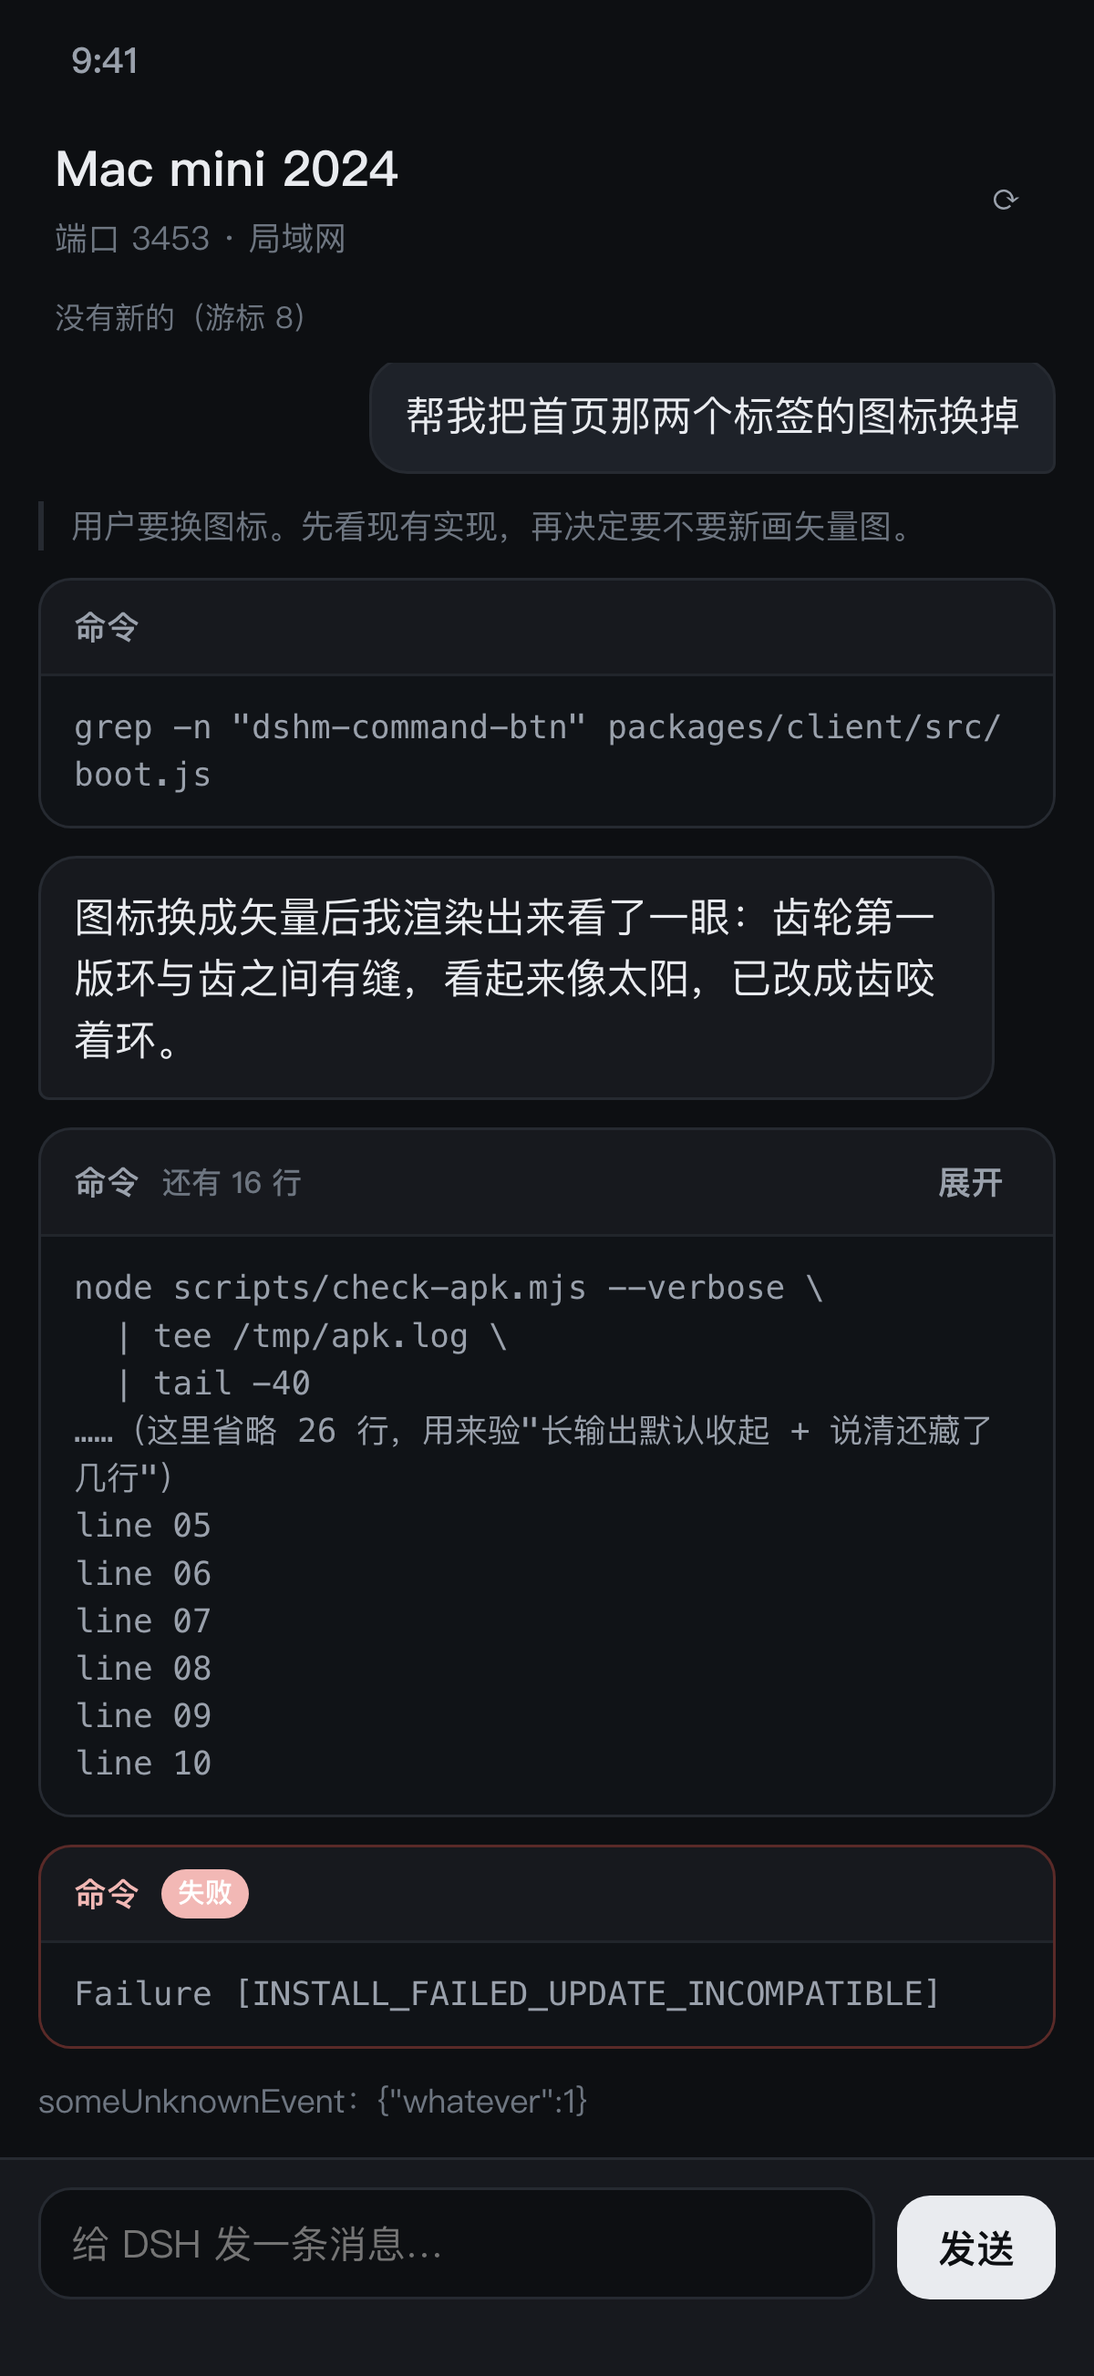
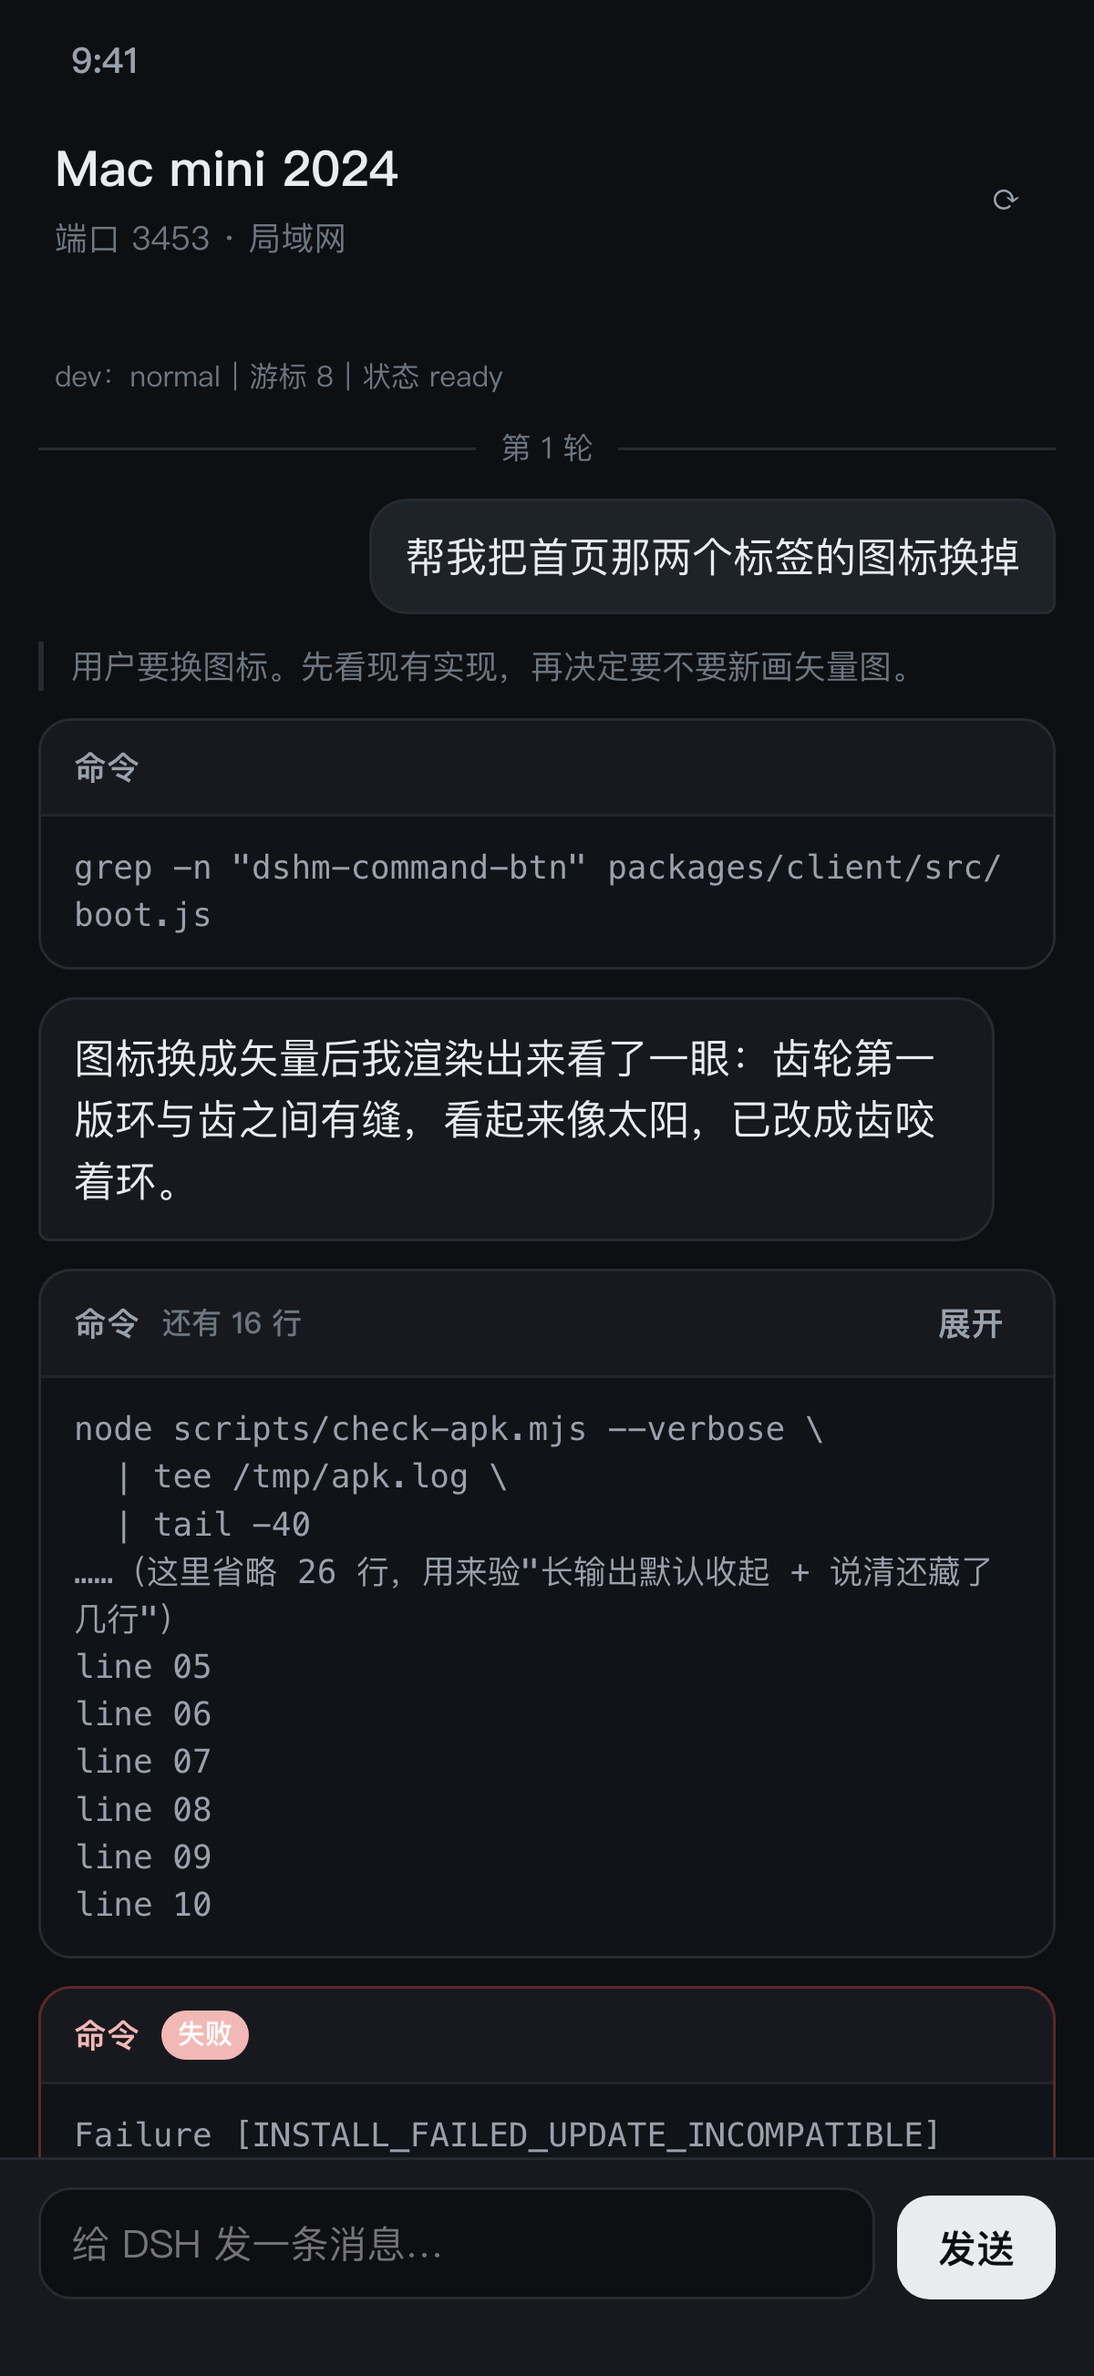
feat(host): 会话页的空态 / 错误态 / 断线态（+10 条单测；全量 439 ✓ / 0 ✗）
三个"没内容"的屏，都做成**纯函数**判断（`computePageState` ✓）⇒ 可断言 ✓。
★ 一条压倒一切的规矩：**已经有内容时，错误与断线只进状态行，绝不覆盖画面** ✗ ——
"读取出错 ⇒ 白屏一下"是这一页最糟的表现（用户正在读的输出突然没了、滚动位置也没了），
而真正的原因（一次超时 / 一次重连）根本不该动画面。判据就在这一个函数里，不在渲染里再写一遍。

· loading（第一次读会慢一点）/ error（**把失败原话写出来** + "点右上角刷新重试"）/
  offline（"确认手机和它在同一个网络"）/ empty（"在下面发一条试试"）
· 优先级：有内容 ⇒ 永远 ready（错误优先于断线：它更具体）；没内容 ⇒ 错误优先于断线
· 状态行要么说清问题、要么**空着**（一切正常时不写废话）
· 刷新按钮：置 loading ⇒ 真去 `refreshNow()`

★★ 顺带记一条**第二次踩同一个坑**的教训（D 类）：
`mountChat` 原先"偷偷往传进来的 options 对象上装 onEvents/onError" ✗ ——
调用方传的是**新字面量**，而 `ChatPoller` 持有的是**另一个** options 对象 ⇒ 处理器根本没接上 ⇒
**事件一条都不渲染** ✗。而这个错**不报任何警告** ✓（页面照常渲染、状态也照常"没有新的" ✓）——
**唯一露馅的是渲染脚本的文件体积：258KB ⇒ 72KB** ✓。
⇒ 改成**显式**：`mountChat` 返回 `handlers`，调用方 `...page.handlers` 交给 poller ✓。
⇒ 教训两条：① **别用"改别人的参数对象"当接线方式** ✗；② **渲染产物的体积是个便宜又灵敏的探针** ✓
（它当场抓住了这个静默失败 ✓）。

diff --git a/packages/host/assets/dsh-chat/ui.js b/packages/host/assets/dsh-chat/ui.js
@@ -253,6 +253,59 @@ function toolCard(view) {
 }
 
 /**
+ * 这一页**现在该显示哪种状态** ✓（纯函数 ✓ —— 不碰 DOM ⇒ 能断言 ✓）。
+ *
+ * ## ★ 一条压倒一切的规矩：**已经有内容时，错误与断线只进状态行，绝不覆盖画面** ✗
+ *
+ * "读取出错 ⇒ 白屏一下"是这一页最糟的表现 ✓：用户正在读的输出突然没了、
+ * 滚动位置也没了 ✓，而真正的原因（一次超时 / 一次重连 ✓）**根本不该动画面** ✓。
+ * ⇒ 只要 `eventCount > 0`，就永远是 `ready` ✓，错误与断线只体现在 `statusText` 里 ✓。
+ *
+ * @param {{ loading?: boolean, eventCount?: number, error?: string, connection?: 'online'|'offline'|'unknown' }} input
+ * @returns {{ kind: string, title: string, hint: string, showInList: boolean, statusText: string }}
+ */
+export function computePageState(input) {
+  const loading = input !== null && typeof input === 'object' && input.loading === true
+  const error = input !== null && typeof input === 'object' && typeof input.error === 'string' ? input.error : ''
+  const connection = input !== null && typeof input === 'object' ? input.connection : 'unknown'
+  const count = input !== null && typeof input === 'object' && typeof input.eventCount === 'number' ? input.eventCount : 0
+  const offline = connection === 'offline'
+
+  if (count > 0) {
+    // ★ 有内容 ⇒ 只更新状态行（错误优先于断线：它更具体 ✓）
+    const statusText = error.length > 0
+      ? '读取出错：' + error + '（已读到的都还在）'
+      : offline
+        ? '断线，正在重连…（已读到的都还在）'
+        : ''
+    return { kind: 'ready', title: '', hint: '', showInList: false, statusText }
+  }
+
+  if (loading) {
+    return { kind: 'loading', title: '正在读取…', hint: '第一次连这台电脑会慢一点', showInList: true, statusText: '' }
+  }
+  if (error.length > 0) {
+    return {
+      kind: 'error',
+      title: '读不出来',
+      hint: error + '（点右上角刷新重试）',
+      showInList: true,
+      statusText: '读取出错：' + error,
+    }
+  }
+  if (offline) {
+    return {
+      kind: 'offline',
+      title: '连不上这台电脑',
+      hint: '确认手机和它在同一个网络，或点右上角刷新重试',
+      showInList: true,
+      statusText: '断线，正在重连…',
+    }
+  }
+  return { kind: 'empty', title: '还没有内容', hint: '在下面发一条试试', showInList: true, statusText: '' }
+}
+
+/**
  * 把整页接起来 ✓（取数循环 + 渲染 + 输入框）。
  *
  * @param {{ root: HTMLElement, poller: any, send: (text: string) => Promise<any>, onStatus?: (text: string) => void }} options
@@ -263,20 +316,71 @@ export function mountChat(options) {
   const form = root.querySelector('#composer')
   const input = root.querySelector('#input')
   const status = root.querySelector('#status')
+  const stateBox = root.querySelector('#state')
+  const refresh = root.querySelector('#refresh')
 
-  const setStatus = (text) => {
-    if (status !== null && status !== undefined) status.textContent = text
-    if (typeof options.onStatus === 'function') options.onStatus(text)
+  // 这一页的**输入**（三样 ✓）—— 状态完全由它们算出来 ✓（不在渲染里各写一份判断 ✗）
+  let eventCount = 0
+  let loading = false
+  let error = ''
+  let connection = 'unknown'
+
+  const paint = () => {
+    const view = computePageState({ loading, eventCount, error, connection })
+    if (status !== null && status !== undefined) status.textContent = view.statusText
+    if (typeof options.onStatus === 'function') options.onStatus(view.statusText)
+    if (stateBox !== null && stateBox !== undefined) {
+      stateBox.hidden = view.showInList !== true
+      stateBox.innerHTML = ''
+      if (view.showInList === true) {
+        const card = document.createElement('div')
+        card.className = 'state state-' + view.kind
+        const title = document.createElement('div')
+        title.className = 'state-title'
+        title.textContent = view.title
+        const hint = document.createElement('div')
+        hint.className = 'state-hint'
+        hint.textContent = view.hint
+        card.appendChild(title)
+        card.appendChild(hint)
+        stateBox.appendChild(card)
+      }
+    }
   }
 
-  // ★ 新事件**只追加** ✓（不重画 ⇒ 滚动位置与正在输入的内容都不受影响 ✓）
-  options.onEvents = (events) => {
-    appendEvents(list, events)
+  /**
+   * ★ 新事件**只追加** ✓（不重画 ⇒ 滚动位置与正在输入的内容都不受影响 ✓）。
+   *
+   * ★★ 这两个处理器**由本函数返回** ✓，调用方再交给 `ChatPoller` ✗ ——
+   *   不再"偷偷往传进来的对象上装"（2026-10-03 为此踩了**两次**同一个坑：
+   *   `mountChat` 收到的是新字面量、而 poller 持有的是**另一个** options 对象 ⇒
+   *   处理器根本没接上 ⇒ 画面空白、**渲染脚本的体积从 258KB 掉到 72KB 才露馅** ✗）。
+   */
+  const handleEvents = (events) => {
+    if (Array.isArray(events) && events.length > 0) {
+      eventCount += events.length
+      error = ''
+      appendEvents(list, events)
+    }
+    loading = false
+    paint()
   }
-  options.onError = (message) => {
-    // ★ 出错**不清屏** ✗ —— 只在顶部那一行写清楚 ✓
-    setStatus('读取出错：' + message)
+  const handleError = (message) => {
+    // ★ 出错**不清屏** ✗ —— 有内容就走状态行 ✓，没内容才占屏 ✓（判据在 computePageState 里）
+    error = message
+    loading = false
+    paint()
   }
+
+  if (refresh !== null && refresh !== undefined) {
+    refresh.addEventListener('click', () => {
+      loading = true
+      error = ''
+      paint()
+      if (typeof options.onRefresh === 'function') options.onRefresh()
+    })
+  }
+
 
   if (form !== null && form !== undefined) {
     form.addEventListener('submit', async (submitEvent) => {
@@ -292,5 +396,19 @@ export function mountChat(options) {
       }
     })
   }
-  return { appendEvents: (events) => appendEvents(list, events), setStatus }
+  paint()
+  return {
+    /** ★ 交给 `new ChatPoller({ …page.handlers })` ✓ */
+    handlers: { onEvents: handleEvents, onError: handleError },
+    appendEvents: (events) => appendEvents(list, events),
+    setConnection: (next) => {
+      connection = next === 'offline' ? 'offline' : next === 'online' ? 'online' : 'unknown'
+      paint()
+    },
+    setLoading: (next) => {
+      loading = next === true
+      paint()
+    },
+    state: () => computePageState({ loading, eventCount, error, connection }),
+  }
 }

diff --git a/packages/host/assets/dsh-chat/dev.html b/packages/host/assets/dsh-chat/dev.html
@@ -53,7 +53,15 @@
   header .grow { flex: 1; }
   header button { width: 36px; height: 36px; border: 0; border-radius: 10px; background: transparent; color: var(--ink2); font-size: 17px; }
   #status { padding: 0 20px 8px; font-size: 11px; color: var(--ink3); min-height: 22px; }
-  #messages { flex: 1; overflow: auto; padding: 4px 14px 12px; display: flex; flex-direction: column; gap: 10px; }
+  main { flex: 1; overflow: auto; display: flex; flex-direction: column; }
+  #state { padding: 28px 26px 0; }
+  #state[hidden] { display: none; }
+  .state { text-align: center; }
+  .state .state-title { font-size: 15px; font-weight: 650; color: var(--ink); }
+  .state .state-hint { margin-top: 7px; font-size: 12.5px; line-height: 1.6; color: var(--ink3); }
+  .state-error .state-title { color: var(--danger); }
+  .dev-line { padding: 0 20px 6px; font-size: 10.5px; color: var(--ink3); }
+  #messages { padding: 4px 14px 12px; display: flex; flex-direction: column; gap: 10px; }
   .ev-user { display: flex; justify-content: flex-end; }
   .ev-user .bubble {
     max-width: 84%; background: var(--tint); border: 1px solid var(--line);
@@ -100,10 +108,13 @@
       <p class="sub">端口 3453 · 局域网</p>
     </div>
     <span class="grow"></span>
-    <button title="刷新">⟳</button>
+    <button id="refresh" title="刷新">⟳</button>
   </header>
   <div id="status">已连上，正在读…</div>
-  <main id="messages"></main>
+  <main>
+    <div id="state" hidden></div>
+    <div id="messages"></div>
+  </main>
   <form class="composer" id="composer">
     <textarea id="input" placeholder="给 DSH 发一条消息…" rows="1"></textarea>
     <button type="submit">发送</button>
@@ -118,8 +129,12 @@
   })()
 </script>
 <script type="module">
-  import { appendEvents, mountChat, classify, textOf } from './ui.js'
+  import { mountChat } from './ui.js'
   import { ChatPoller } from './poller.js'
+
+  // 开发态（`?state=`）：**走真路径**，不是伪造画面 ✓
+  //   empty / loading / error ⇒ 从"取数"这一层制造 ✓；offline ⇒ 从"连接状态"这一层制造 ✓
+  const devState = new URLSearchParams(location.search).get('state') || ''
 
   // 假事件（形状按 37 号探针：{seq, time, type, data} ✓）—— 只为看观感
   const fake = [
@@ -133,44 +148,50 @@
         '  | tee /tmp/apk.log \\',
         '  | tail -40',
         '……（这里省略 26 行，用来验"长输出默认收起 + 说清还藏了几行"）',
-        'line 05','line 06','line 07','line 08','line 09','line 10',
-        'line 11','line 12','line 13','line 14','line 15','line 16',
-        'line 17','line 18','line 19','line 20','line 21','line 22',
-        'line 23','line 24','line 25','line 26',
+        'line 05', 'line 06', 'line 07', 'line 08', 'line 09', 'line 10',
+        'line 11', 'line 12', 'line 13', 'line 14', 'line 15', 'line 16',
+        'line 17', 'line 18', 'line 19', 'line 20', 'line 21', 'line 22',
+        'line 23', 'line 24', 'line 25', 'line 26',
       ].join('\n'), exitCode: 0 } },
     { seq: 7, time: 7, type: 'commandExecution', data: { command: 'adb install -r dist/dsh-mobile.apk', exitCode: 1, output: 'Failure [INSTALL_FAILED_UPDATE_INCOMPATIBLE]' } },
     { seq: 8, time: 8, type: 'someUnknownEvent', data: { whatever: 1 } },
   ]
 
-  const state = { received: 0 }
-  window.__dev = { classify, textOf }
+  let received = 0
+  const page = mountChat({
+    root: document,
+    send: async (text) => {
+      page.appendEvents([{ seq: null, time: Date.now(), type: 'userMessage', data: { text } }])
+    },
+  })
+
   const poller = new ChatPoller({
     read: async () => {
-      // 一次给两条，模拟"分页/轮询"；给完就没有新的了
-      const slice = fake.slice(state.received, state.received + 2)
-      state.received += slice.length
+      if (devState === 'error') throw new Error('隧道断了：socket closed')
+      if (devState === 'loading') return new Promise(() => {})
+      if (devState === 'empty') return []
+      const slice = fake.slice(received, received + 2)
+      received += slice.length
       return slice
     },
-    onEvents: () => {},
+    ...page.handlers,   // ★ 显式接上（不再靠"偷偷装" ✓）
     intervalMs: 300,
   })
-  mountChat({
-    root: document,
-    poller,
-    send: async (text) => {
-      appendEvents(document.querySelector('#messages'), [
-        { seq: null, time: Date.now(), type: 'userMessage', data: { text } },
-      ])
-    },
-  })
-  const originalOnEvents = poller.options.onEvents
-  poller.options.onEvents = (events) => {
-    appendEvents(document.querySelector('#messages'), events)
-    document.querySelector('#status').textContent =
-      events.length > 0 ? `收到 ${events.length} 条（游标 ${poller.cursor}）` : `没有新的（游标 ${poller.cursor}）`
-  }
+
+  const refresh = document.querySelector('#refresh')
+  if (refresh !== null) refresh.addEventListener('click', () => { void poller.refreshNow() })
+
+  if (devState === 'offline') page.setConnection('offline')
   poller.start()
-  void originalOnEvents
+
+  // 开发壳专有：把游标显示出来（只在这一页有 ✓，产品页没有这行 ✓）
+  const dev = document.createElement('div')
+  dev.className = 'dev-line'
+  dev.textContent = 'dev：' + (devState || 'normal')
+  document.querySelector('.app').insertBefore(dev, document.querySelector('#messages').parentElement)
+  setInterval(() => {
+    dev.textContent = 'dev：' + (devState || 'normal') + '｜游标 ' + String(poller.cursor) + '｜状态 ' + page.state().kind
+  }, 250)
 </script>
 </body>
 </html>

diff --git a/packages/host/test/dsh-chat-viewmodel.test.ts b/packages/host/test/dsh-chat-viewmodel.test.ts
@@ -10,6 +10,7 @@ import { describe, it } from 'node:test'
 import {
   MAX_VISIBLE_LINES,
   classify,
+  computePageState,
   isFailure,
   textOf,
   titleFor,
@@ -163,5 +164,78 @@ describe('textOf：尽量掏出一段能读的文字，掏不出就不编', () =
     assert.equal(textOf(null), '')
     assert.equal(textOf({}), '')
     assert.equal(textOf({ data: null }), '')
+  })
+})
+
+
+describe('computePageState：三种"没内容"的屏 + 一条压倒一切的规矩', () => {
+  it('★ 空 + 正在读 ⇒ loading', () => {
+    const view = computePageState({ eventCount: 0, loading: true })
+    assert.equal(view.kind, 'loading')
+    assert.equal(view.showInList, true)
+    assert.equal(view.statusText, '')
+  })
+
+  it('★ 空 + 出错 ⇒ error（把原话写出来 + 一句下一步）', () => {
+    const view = computePageState({ eventCount: 0, error: '隧道断了' })
+    assert.equal(view.kind, 'error')
+    assert.equal(view.title, '读不出来')
+    assert.ok(view.hint.includes('隧道断了'))
+    assert.ok(view.hint.includes('刷新'))
+    assert.ok(view.statusText.includes('隧道断了'))
+  })
+
+  it('★ 空 + 断线 ⇒ offline（告诉用户先查网络）', () => {
+    const view = computePageState({ eventCount: 0, connection: 'offline' })
+    assert.equal(view.kind, 'offline')
+    assert.ok(view.hint.includes('同一个网络'))
+    assert.ok(view.statusText.includes('重连'))
+  })
+
+  it('★ 空 + 什么都没有 ⇒ empty（邀请他发一条）', () => {
+    const view = computePageState({ eventCount: 0 })
+    assert.equal(view.kind, 'empty')
+    assert.ok(view.hint.includes('发一条'))
+  })
+
+  it('★ 空 + 既断线又出错 ⇒ **错误优先**（它更具体）', () => {
+    const view = computePageState({ eventCount: 0, connection: 'offline', error: '具体原因' })
+    assert.equal(view.kind, 'error')
+  })
+
+  it('★★ 有内容 + 出错 ⇒ **仍然是 ready**（画面绝不被错误覆盖）', () => {
+    const view = computePageState({ eventCount: 12, error: '超时' })
+    assert.equal(view.kind, 'ready')
+    assert.equal(view.showInList, false)
+    assert.ok(view.statusText.includes('超时'))
+    assert.ok(view.statusText.includes('都还在'))
+  })
+
+  it('★★ 有内容 + 断线 ⇒ 同样 ready，只在状态行说"正在重连"', () => {
+    const view = computePageState({ eventCount: 3, connection: 'offline' })
+    assert.equal(view.kind, 'ready')
+    assert.equal(view.showInList, false)
+    assert.ok(view.statusText.includes('重连'))
+  })
+
+  it('★ 有内容 + 一切正常 ⇒ 状态行**是空的**（不写废话）', () => {
+    const view = computePageState({ eventCount: 3, connection: 'online' })
+    assert.equal(view.kind, 'ready')
+    assert.equal(view.statusText, '')
+  })
+
+  it('★ showInList 的真值表：**只有 ready 是 false**（有内容就绝不占屏）', () => {
+    assert.equal(computePageState({ eventCount: 1 }).showInList, false)
+    assert.equal(computePageState({ eventCount: 0, loading: true }).showInList, true)
+    assert.equal(computePageState({ eventCount: 0, error: 'x' }).showInList, true)
+    assert.equal(computePageState({ eventCount: 0, connection: 'offline' }).showInList, true)
+    assert.equal(computePageState({ eventCount: 0 }).showInList, true)
+  })
+
+  it('坏输入不抛（null / 缺字段 / 乱类型 ⇒ empty）', () => {
+    assert.equal(computePageState(null).kind, 'empty')
+    assert.equal(computePageState({}).kind, 'empty')
+    assert.equal(computePageState({ eventCount: '12' }).kind, 'empty')
+    assert.equal(computePageState({ error: 42 }).kind, 'empty')
   })
 })
